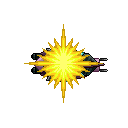
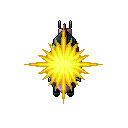
implemented enemy ship explosion

Changed region(s): [[0.1875, 0.1562, 0.8438, 0.7812]]

diff --git a/scripts/game.js b/scripts/game.js
@@ -17,7 +17,7 @@ class Game {
 		this.enemyImage
 		this.playerWeaponGreen
 		
-		// this.explosionImage
+		this.explosionImage
 	}
 	
 	preload() {
@@ -41,10 +41,20 @@ class Game {
 			{ src: loadImage("./assets/weapons/green/shot1_4.png") }
 		]
 
-
-		// this.explosionImage = [
-		// 	{ src: loadImage("image")}
-		// ]
+		this.explosionImage = [
+			{ src: loadImage("../assets/explosions/Ship2_Explosion/Ship2_Explosion_000.png") },
+			{ src: loadImage("../assets/explosions/Ship2_Explosion/Ship2_Explosion_004.png") },
+			{ src: loadImage("../assets/explosions/Ship2_Explosion/Ship2_Explosion_005.png") },
+			{ src: loadImage("../assets/explosions/Ship2_Explosion/Ship2_Explosion_008.png") },
+			{ src: loadImage("../assets/explosions/Ship2_Explosion/Ship2_Explosion_009.png") },
+			{ src: loadImage("../assets/explosions/Ship2_Explosion/Ship2_Explosion_010.png") },
+			{ src: loadImage("../assets/explosions/Ship2_Explosion/Ship2_Explosion_013.png") },
+			{ src: loadImage("../assets/explosions/Ship2_Explosion/Ship2_Explosion_014.png") },
+			{ src: loadImage("../assets/explosions/Ship2_Explosion/Ship2_Explosion_015.png") },
+			{ src: loadImage("../assets/explosions/Ship2_Explosion/Ship2_Explosion_016.png") },
+			{ src: loadImage("../assets/explosions/Ship2_Explosion/Ship2_Explosion_019.png") },
+			{ src: loadImage("../assets/explosions/Ship2_Explosion/Ship2_Explosion_021.png") }
+		]
 	}
 
 	draw() {
@@ -52,7 +62,7 @@ class Game {
 		this.background.draw()
 
 		if (frameCount % 90 === 0) {
-            this.smallEnemy.push(new Smallenemy(this.enemyImage[0].src))
+            this.smallEnemy.push(new Smallenemy(this.enemyImage[0].src, this.explosionImage))
         }
 
 		this.smallEnemy.forEach(function(enemy) {
@@ -73,7 +83,14 @@ class Game {
 			this.smallEnemy.forEach((smallEnemy, smallEnemyIndex) => {
 				if (bullet.bulletCollision(smallEnemy)) {
 					this.weaponGreenBulletsLeft.splice(bulletIndex, 1)
-					this.smallEnemy.splice(smallEnemyIndex, 1)
+					this.smallEnemy[smallEnemyIndex].health -= 1
+					if (smallEnemy.health <= 0 && smallEnemy.initialDeadFrameCount < frameCount + 12) {
+						this.smallEnemy.splice(smallEnemyIndex, 1)
+						this.player.score += 100
+					}
+				}
+				if (bullet.y < -100) {
+					this.weaponGreenBulletsLeft.splice(bulletIndex, 1)
 				}
 			})
 		})
@@ -82,7 +99,14 @@ class Game {
 			this.smallEnemy.forEach((smallEnemy, smallEnemyIndex) => {
 				if (bullet.bulletCollision(smallEnemy)) {
 					this.weaponGreenBulletsRight.splice(bulletIndex, 1)
-					this.smallEnemy.splice(smallEnemyIndex, 1)
+					this.smallEnemy[smallEnemyIndex].health -= 1
+					if (smallEnemy.health <= 0 && smallEnemy.initialDeadFrameCount < frameCount + 12) {
+						this.smallEnemy.splice(smallEnemyIndex, 1)
+						this.player.score += 100
+					}
+				}
+				if (bullet.y < -100) {
+					this.weaponGreenBulletsRight.splice(bulletIndex, 1)
 				}
 			})
 		})
@@ -102,8 +126,21 @@ class Game {
             }
         })
 		
-		this.player.draw()
+		// PLAYER COLLISION
 
+		this.smallEnemy.forEach((smallEnemy, smallEnemyIndex) => {
+			if (this.player.playerCollision(smallEnemy)) {
+				this.smallEnemy.splice(smallEnemyIndex, 1)
+				this.player.health -= 1
+				console.log(this.player.health)
+				if (this.player.health <= 0) {
+					// remove player stop game and show losing screen
+				}
+			}
+		})
+
+		this.player.draw()
+		this.player.playerScore()
 	}
 }
 

diff --git a/scripts/enemy.js b/scripts/enemy.js
@@ -1,32 +1,34 @@
 class Smallenemy {
-    constructor(image) {
+    constructor(image, explosionImage) {
         this.image = image
+        this.explosionImage = explosionImage
         this.width = 130
         this.height = 170
         this.x = (Math.random() * width) / 1.14
         this.y = - this.height
-        this.velocity = 1
-        this.health = 2
+        this.velocity = 2
+        this.health = 5
+        this.initialDeadFrameCount = Infinity
     }
 
     draw() {
         this.y += this.velocity
         image(this.image, this.x, this.y, this.width, this.height)
+
+        if (this.health <= 0) {
+            this.initialDeadFrameCount = frameCount
+            image(this.explosionImage[0].src, this.x, this.y + 10, this.width, this.height)
+            if (frameCount % 2 === 0) { image(this.explosionImage[1].src, this.x, this.y + 10, this.width, this.height) }
+            if (frameCount % 3 === 0) { image(this.explosionImage[2].src, this.x, this.y + 10, this.width, this.height) }
+            if (frameCount % 4 === 0) { image(this.explosionImage[3].src, this.x, this.y + 10, this.width, this.height) }
+            if (frameCount % 5 === 0) { image(this.explosionImage[4].src, this.x, this.y + 10, this.width, this.height) }
+            if (frameCount % 6 === 0) { image(this.explosionImage[5].src, this.x, this.y + 10, this.width, this.height) }
+            if (frameCount % 7 === 0) { image(this.explosionImage[6].src, this.x, this.y + 10, this.width, this.height) }
+            if (frameCount % 8 === 0) { image(this.explosionImage[7].src, this.x, this.y + 10, this.width, this.height) }
+            if (frameCount % 9 === 0) { image(this.explosionImage[8].src, this.x, this.y + 10, this.width, this.height) }
+            if (frameCount % 10 === 0) { image(this.explosionImage[9].src, this.x, this.y + 10, this.width, this.height) }
+            if (frameCount % 11 === 0) { image(this.explosionImage[10].src, this.x, this.y + 10, this.width, this.height) }
+            if (frameCount % 12 === 0) { image(this.explosionImage[11].src, this.x, this.y + 10, this.width, this.height) }
+        }
     }
-
-    // collision(playerInfo, bulletPositionX ,bulletPositionY) {
-    //     let smallEnemyX = this.x + this.width / 2
-    //     let smallEnemyY = this.y + this.height / 2
-
-    //     let playerX = playerInfo.x + playerInfo.width / 2
-    //     let playerY = playerInfo.y + playerInfo.height / 2
-
-    //     if (dist(smallEnemyX, smallEnemyY, bulletPositionX, bulletPositionY) > 50) {
-    //         return false
-    //     } else {
-    //         this.health -= 1
-    //         console.log(this.health)
-    //         return true
-    //     }
-    // }
 }

diff --git a/scripts/player.js b/scripts/player.js
@@ -94,5 +94,29 @@ class Player {
 
         console.log(game.weaponOrangeBulletsLeft)
     }
+
+    playerCollision(smallEnemyInfo) { 
+        let smallEnemyX = smallEnemyInfo.x + smallEnemyInfo.width /2
+        let smallEnemyY = smallEnemyInfo.y + smallEnemyInfo.height /2
+        let playerX = this.x + this.width / 2
+        let playerY = this.y + this.height / 2
+
+        if (dist(smallEnemyX, smallEnemyY, playerX, playerY) > 100) {
+            return false
+        } else {
+            return true
+        }
+    }
+
+    playerScore() {
+        let displayScore = `Score: ${this.score}`
+
+        text(displayScore, 1080, 60)
+        textFont(orbitronBlack)
+        fill(255, 255, 255)
+        textAlign(RIGHT, BASELINE)
+        textSize(32)
+    }
 }
+
 

diff --git a/scripts/weapon.js b/scripts/weapon.js
@@ -13,8 +13,7 @@ class WeaponGreenLeft {
         image(this.image, this.x, this.y, this.width, this.height)
     }
 
-    bulletCollision(smallEnemyInfo) { 
-        
+    bulletCollision(smallEnemyInfo) {
         let smallEnemyX = smallEnemyInfo.x + smallEnemyInfo.width /2
         let smallEnemyY = smallEnemyInfo.y + smallEnemyInfo.height /2
         let bulletX = this.x + this.width / 2
@@ -50,7 +49,7 @@ class WeaponGreenRight {
         let bulletX = this.x + this.width / 2
         let bulletY = this.y + this.height / 2
 
-        if (dist(smallEnemyX, smallEnemyY, bulletX, bulletY) > 25) {
+        if (dist(smallEnemyX, smallEnemyY, bulletX, bulletY) > 40) {
             return false
         } else {
             return true

diff --git a/scripts/main.js b/scripts/main.js
@@ -4,6 +4,7 @@ let gameStarted = false
 // Load game assets
 function preload() {
 	game.preload()
+	orbitronBlack = loadFont("../assets/font/Orbitron-Black.ttf")
 }
 
 let buttonGreen
